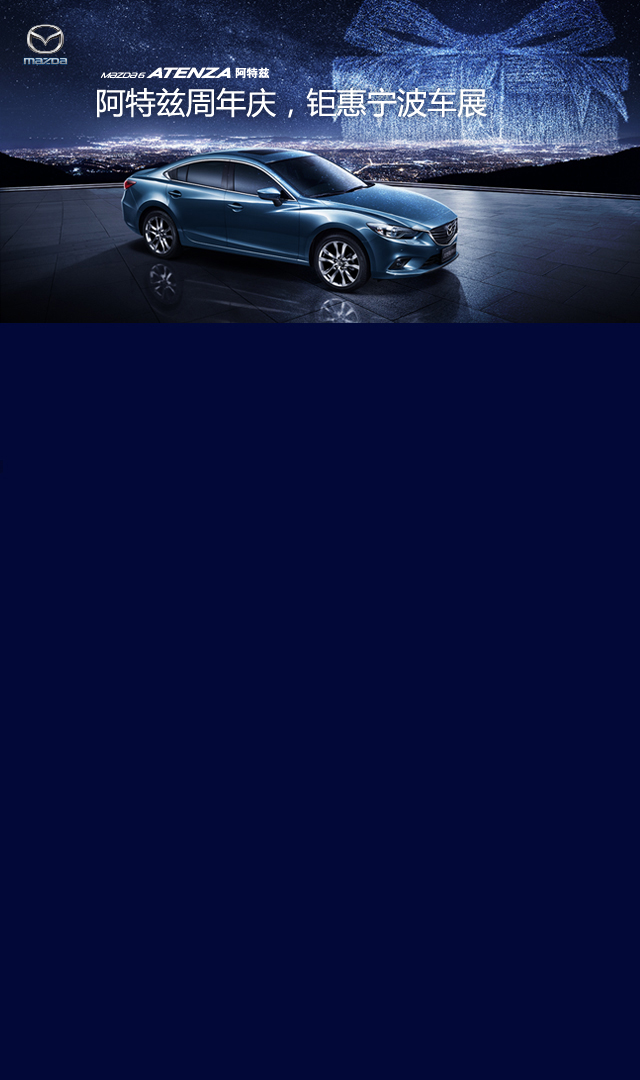
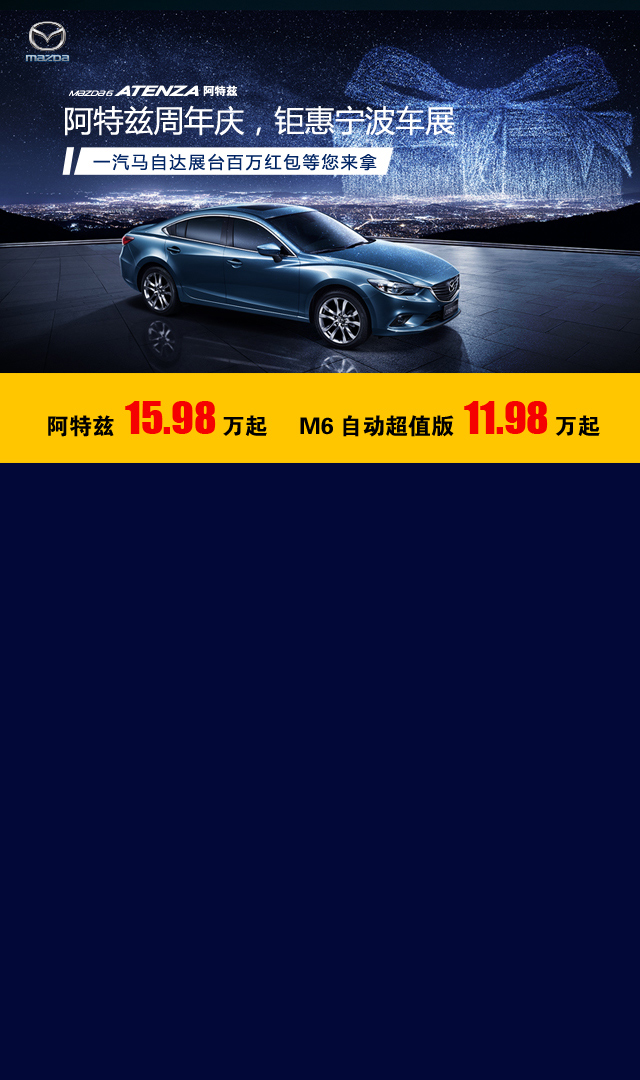
替换小东西

diff --git a/views/mobile/views/activeRole.html b/views/mobile/views/activeRole.html
@@ -7,13 +7,13 @@
 			<h4>本次宁波国际车展政策介绍：</h4>
 			<section>
 				<p>
-				<strong>阿特兹159800元起</strong> 车展优惠2万更送10000元超值礼包
+				<strong>阿特兹159800元起</strong> 车展钜惠20000元更送10000元超值礼包
 			</p>
 			<p>
         <strong>M6自动超值版，119800元起</strong>
 			</p>
 			<p>
-        都市时尚SUV cx-7 159800-199800
+        都市时尚SUV  CX-7 ，159800元-199800元
 			</p>
 			<p>
         购车可享50%首付，2年免息以及最高6000元置换补贴

diff --git a/views/mobile/layout/layout.html b/views/mobile/layout/layout.html
@@ -15,12 +15,6 @@
 <body class="$!{pageClass}" data-module="$!dataModule">
 $screen_content
 <script src="/thirdparty/requirejs/require.js" data-main="/js/loader.js" type="text/javascript"></script>
-<audio width="100" height="100" autoplay loop class="audio">
-  <source src="/images/background.mp3" type="audio/mp3" />
-</audio>
-<script>
-
-</script>
 </body>
 
 </html>

diff --git a/js/loader.js b/js/loader.js
@@ -45,9 +45,6 @@ require.config({
         'jquery'
     ],
     callback: function(jQuery) {
-        jQuery('body').on('touchstart',function(){
-          jQuery(".audio")[0].play();
-        })
         var module = jQuery("body").data("module");
         require([module], function(dom, browserError) {});
     }
